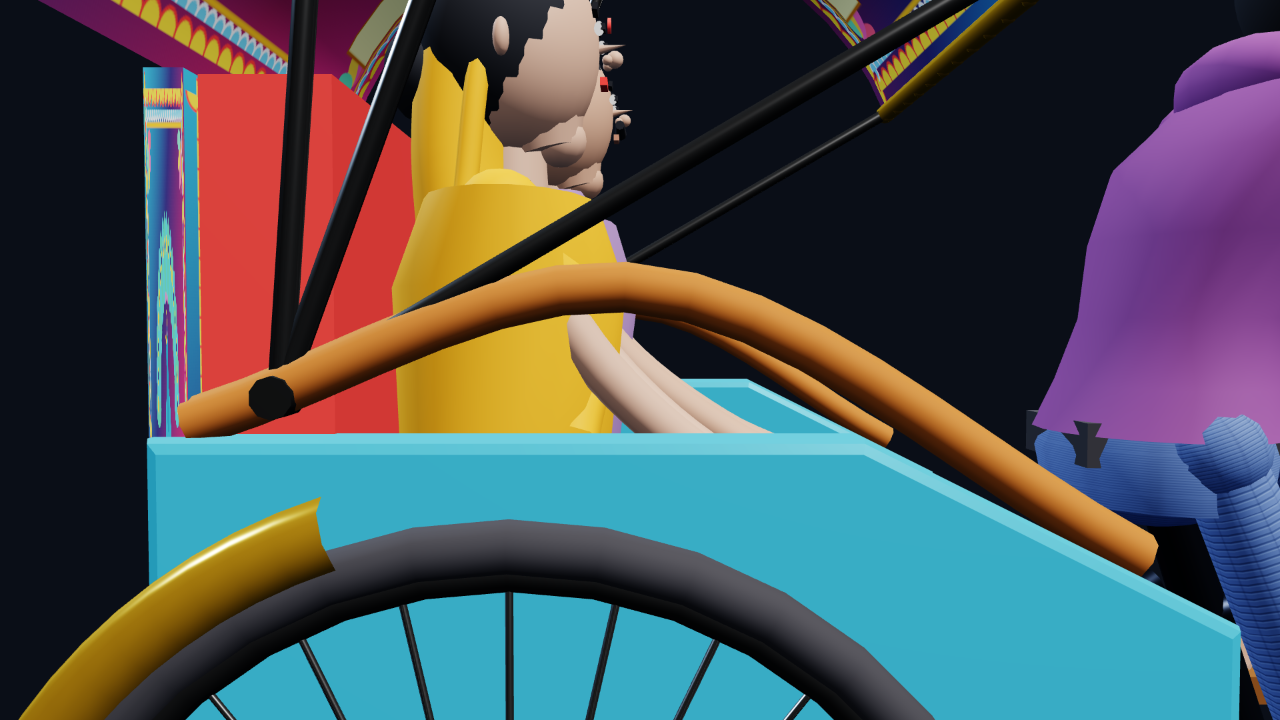
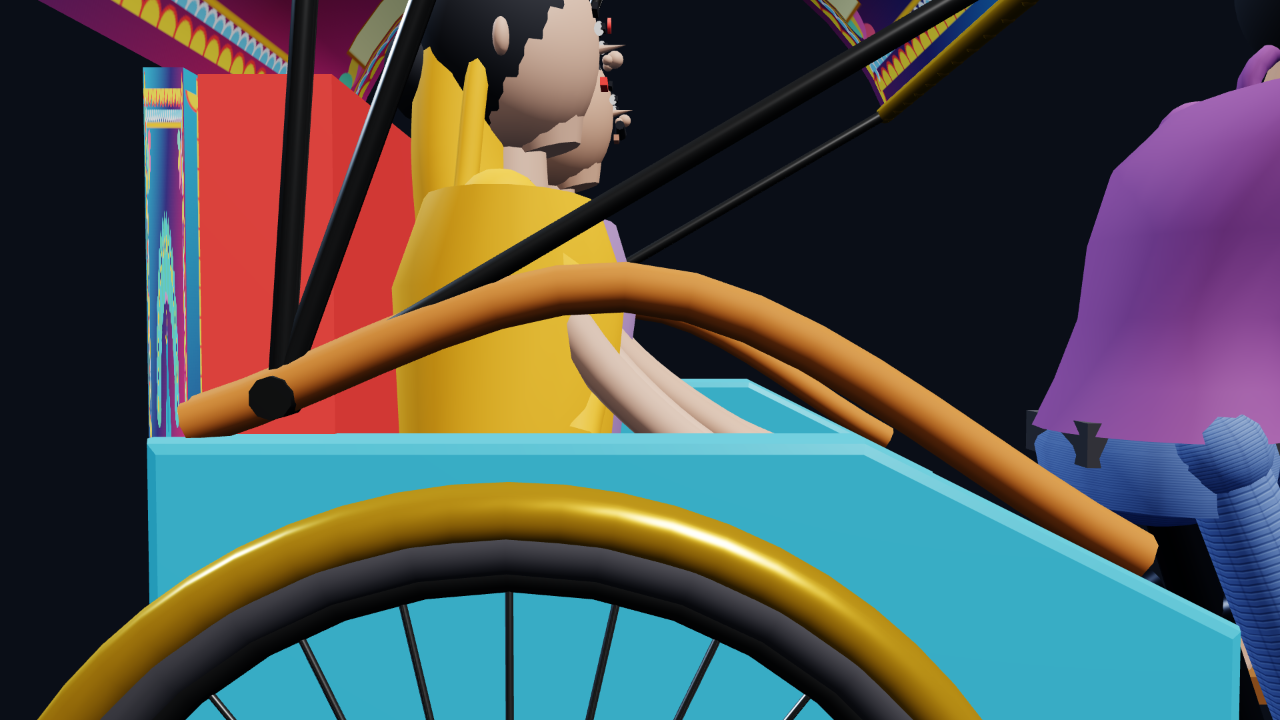
update

diff --git a/scratch/apply_clean_hubs_and_fenders.py b/scratch/apply_clean_hubs_and_fenders.py
@@ -1,0 +1,138 @@
+with open('assets/crossroads-3d.js', 'r', encoding='utf-8') as f:
+    code = f.read()
+
+# -----------------------------------------------------------------------------
+# Task 1.1: Remove chin sphere from buildRealisticAdultHead
+# -----------------------------------------------------------------------------
+old_chin = """      const jaw = new THREE.Mesh(new THREE.CylinderGeometry(0.36, 0.20, 0.42, 12), skinMat);
+      jaw.position.set(0.12, -0.36, 0);
+      jaw.rotation.z = 0.25;
+      headGroup.add(jaw);
+
+      const chin = new THREE.Mesh(new THREE.SphereGeometry(0.15, 10, 10), skinMat);
+      chin.position.set(0.25, -0.50, 0);
+      headGroup.add(chin);"""
+
+new_chin = """      const jaw = new THREE.Mesh(new THREE.CylinderGeometry(0.36, 0.20, 0.42, 12), skinMat);
+      jaw.position.set(0.12, -0.36, 0);
+      jaw.rotation.z = 0.25;
+      headGroup.add(jaw);"""
+
+assert old_chin in code, "Could not find old_chin in assets/crossroads-3d.js"
+code = code.replace(old_chin, new_chin, 1)
+print("1.1 Successfully removed chin sphere from buildRealisticAdultHead")
+
+# -----------------------------------------------------------------------------
+# Task 1.2: Smooth puller chest (remove protruding shoulder dome lump) & adjust collar
+# -----------------------------------------------------------------------------
+old_puller_chest = """    // Smooth rounded clavicle/shoulder dome sealing upper back & chest seams
+    const pullerShoulderDome = new THREE.Mesh(
+      new THREE.SphereGeometry(0.72, 16, 12),
+      plumShirtMat
+    );
+    pullerShoulderDome.scale.set(1.10, 0.70, 1.35);
+    pullerShoulderDome.position.set(0.55, 8.65, 0);
+    pullerShoulderDome.rotation.z = -0.32;
+    pullerGroup.add(pullerShoulderDome);
+
+    // Collar ring seated flush against the shirt shoulder dome
+    const collar = new THREE.Mesh(new THREE.TorusGeometry(0.38, 0.09, 10, 18), plumShirtMat);
+    collar.position.set(0.68, 8.78, 0);
+    collar.rotation.z = -0.32;
+    pullerGroup.add(collar);
+
+    // Neck cylinder sunk deeply into shoulder dome to eliminate any gaps
+    const pullerNeck = new THREE.Mesh(new THREE.CylinderGeometry(0.24, 0.28, 0.65, 12), pullerSkinMat);
+    pullerNeck.position.set(0.74, 8.85, 0);"""
+
+new_puller_chest = """    // Collar ring seated flush against the top of the shirt (smooth chest, no protruding lump)
+    const collar = new THREE.Mesh(new THREE.TorusGeometry(0.38, 0.09, 10, 18), plumShirtMat);
+    collar.position.set(0.65, 8.72, 0);
+    collar.rotation.z = -0.32;
+    pullerGroup.add(collar);
+
+    // Neck cylinder sunk into torso to eliminate any gaps
+    const pullerNeck = new THREE.Mesh(new THREE.CylinderGeometry(0.24, 0.28, 0.65, 12), pullerSkinMat);
+    pullerNeck.position.set(0.72, 8.85, 0);"""
+
+assert old_puller_chest in code, "Could not find old_puller_chest in assets/crossroads-3d.js"
+code = code.replace(old_puller_chest, new_puller_chest, 1)
+print("1.2 Successfully smoothed puller chest and adjusted collar/neck")
+
+# -----------------------------------------------------------------------------
+# Task 1.3: Lower Male Passenger collar ring flush to top of shirt
+# -----------------------------------------------------------------------------
+old_male_collar = """    const mCollar = new THREE.Mesh(new THREE.CylinderGeometry(0.36, 0.42, 0.22, 14), maleShirtMat);
+    mCollar.position.set(0.12, 2.70, 0);
+    maleGroup.add(mCollar);"""
+
+new_male_collar = """    // Collar seated flush against top of shirt at Y=2.50
+    const mCollar = new THREE.Mesh(new THREE.CylinderGeometry(0.36, 0.42, 0.22, 14), maleShirtMat);
+    mCollar.position.set(0.12, 2.52, 0);
+    maleGroup.add(mCollar);"""
+
+assert old_male_collar in code, "Could not find old_male_collar in assets/crossroads-3d.js"
+code = code.replace(old_male_collar, new_male_collar, 1)
+print("1.3 Successfully lowered Male Passenger collar ring to Y=2.52")
+
+# -----------------------------------------------------------------------------
+# Task 2: Replace tilted cylinder wheel center with clean circular hub
+# -----------------------------------------------------------------------------
+old_wheel_hub = """      const hub = new THREE.Mesh(new THREE.CylinderGeometry(0.30, 0.30, 0.9, 14), chromeMat);
+      hub.rotation.z = Math.PI / 2;
+      hub.castShadow = true;
+      wheel.add(hub);"""
+
+new_wheel_hub = """      // Clean circular hub centered at (0, 0, 0)
+      const hub = new THREE.Mesh(new THREE.SphereGeometry(0.32, 16, 16), chromeMat);
+      hub.scale.set(1.0, 1.0, 1.35);
+      hub.castShadow = true;
+      wheel.add(hub);"""
+
+assert old_wheel_hub in code, "Could not find old_wheel_hub in assets/crossroads-3d.js"
+code = code.replace(old_wheel_hub, new_wheel_hub, 1)
+print("2. Successfully replaced tilted cylinder with clean circular hub")
+
+# -----------------------------------------------------------------------------
+# Task 3: Fix front and rear mudguard positions matching reference arch
+# -----------------------------------------------------------------------------
+old_fenders = """    // Fenders
+    const fFenderGeo = new THREE.TorusGeometry(wheelRadius + 0.22, 0.22, 8, 28, Math.PI * 0.65);
+    const fFender = new THREE.Mesh(fFenderGeo, frameMat);
+    fFender.rotation.z = Math.PI * 0.66;
+    fFender.position.set(frontAxleX, wheelRadius, 0);
+    group.add(fFender);
+
+    [-wheelZ, wheelZ].forEach(z => {
+      const rFenderGeo = new THREE.TorusGeometry(wheelRadius + 0.22, 0.22, 8, 28, Math.PI * 0.70);
+      const rFender = new THREE.Mesh(rFenderGeo, goldTrimMat);
+      rFender.rotation.z = Math.PI * 0.60;
+      rFender.position.set(rearAxleX, wheelRadius, z);
+      group.add(rFender);
+    });"""
+
+new_fenders = """    // Fenders
+    // Front mudguard: attaches at fork crown, sweeping over top crest down the rear side facing the frame
+    const fFenderGeo = new THREE.TorusGeometry(wheelRadius + 0.16, 0.18, 8, 28, Math.PI * 0.75);
+    const fFender = new THREE.Mesh(fFenderGeo, frameMat);
+    fFender.rotation.z = Math.PI * 0.38;
+    fFender.position.set(frontAxleX, wheelRadius, 0);
+    group.add(fFender);
+
+    // Rear mudguards: top-center upper arch centered at 12 o'clock, shielding upper hemisphere of tires
+    [-wheelZ, wheelZ].forEach(z => {
+      const rFenderGeo = new THREE.TorusGeometry(wheelRadius + 0.18, 0.18, 8, 28, Math.PI * 0.85);
+      const rFender = new THREE.Mesh(rFenderGeo, goldTrimMat);
+      rFender.rotation.z = Math.PI * 0.075;
+      rFender.position.set(rearAxleX, wheelRadius, z);
+      group.add(rFender);
+    });"""
+
+assert old_fenders in code, "Could not find old_fenders in assets/crossroads-3d.js"
+code = code.replace(old_fenders, new_fenders, 1)
+print("3. Successfully fixed front and rear mudguard positions")
+
+with open('assets/crossroads-3d.js', 'w', encoding='utf-8') as f:
+    f.write(code)
+
+print("ALL 3 TASKS APPLIED TO assets/crossroads-3d.js SUCCESSFULLY!")
